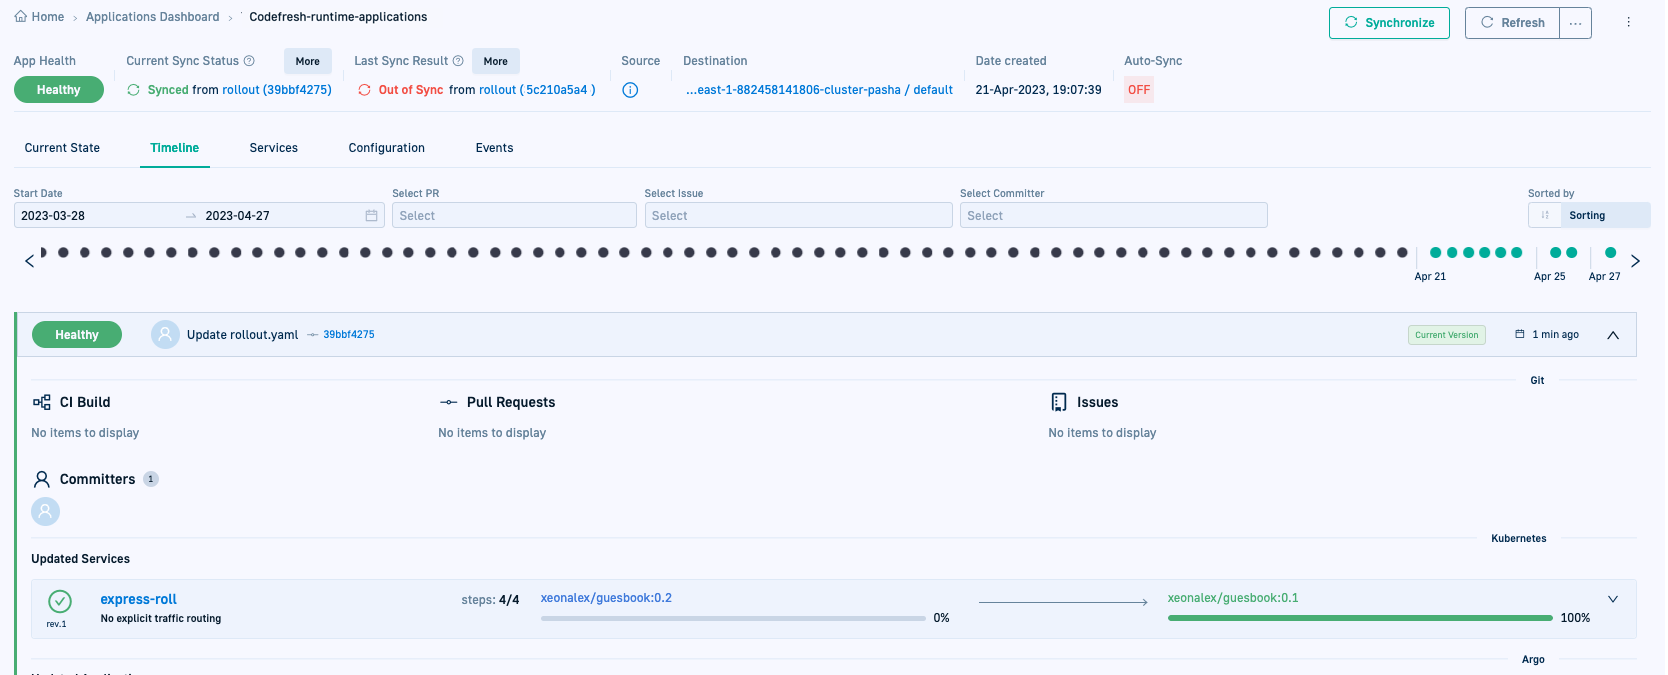
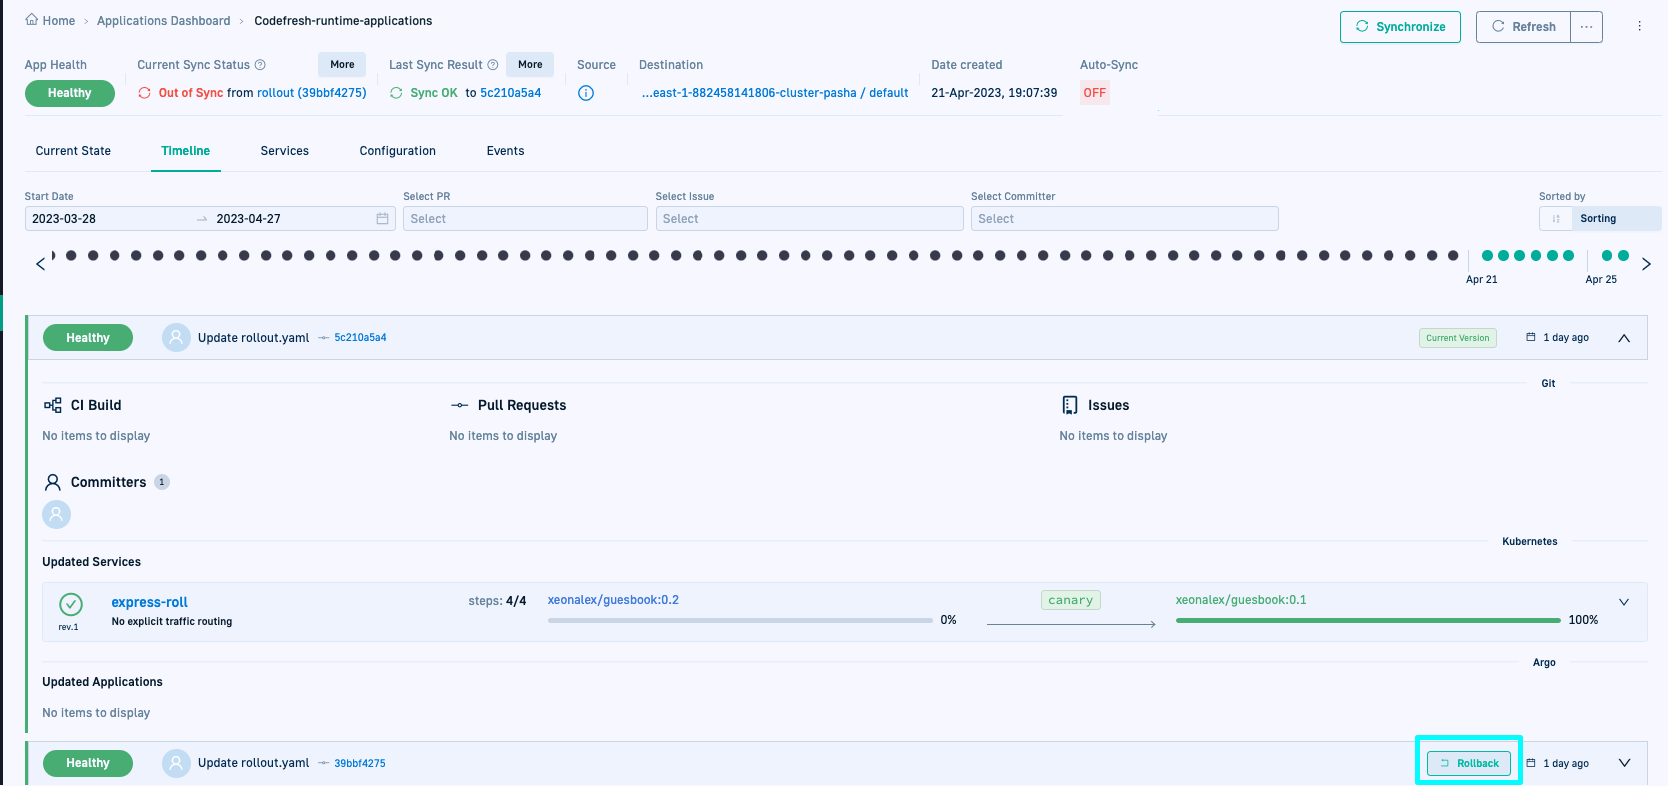
Update screenshot for app rollout

diff --git a/_docs/deployments/gitops/manage-application.md b/_docs/deployments/gitops/manage-application.md
@@ -14,7 +14,7 @@ Application creation and deployment is one part of the continuous deployment/del
 * [Synchronize applications](#manually-synchronize-an-application)   
   Sync applications on-demand by manually applying sync options or selecting the resources to sync.
 
-* [Rollback applications](#rollback-gitops-applications) 
+* [Rollback applications](#rollback-gitops-applications)   
   Rollback an application to a previous deployment version.
 
 
@@ -305,7 +305,6 @@ max-width="70%"
 %}
 
 Once completed, the application's statuses are updated.  
-The Last Sync Result is `out-of-sync` as the sync is not to the most recent Git revision.
 
   {% include
 image.html
